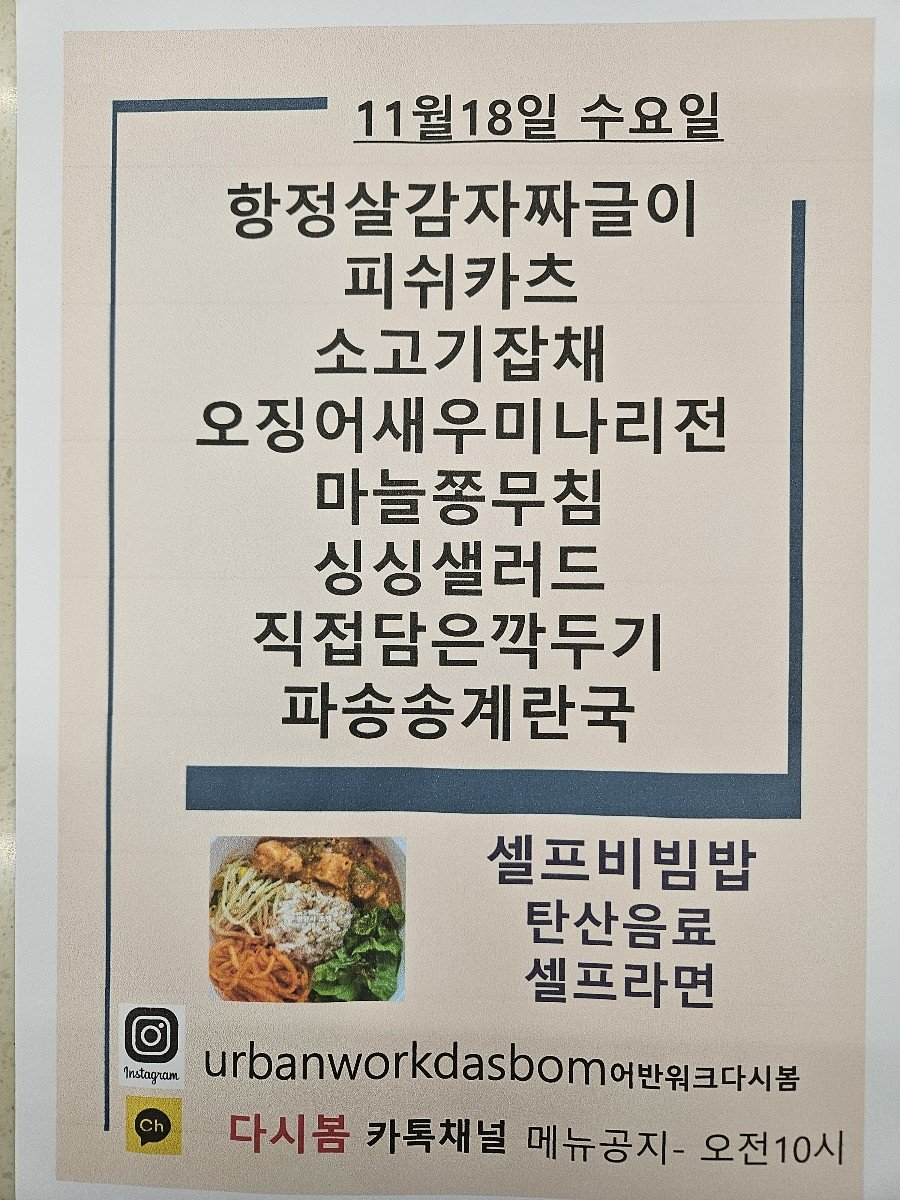
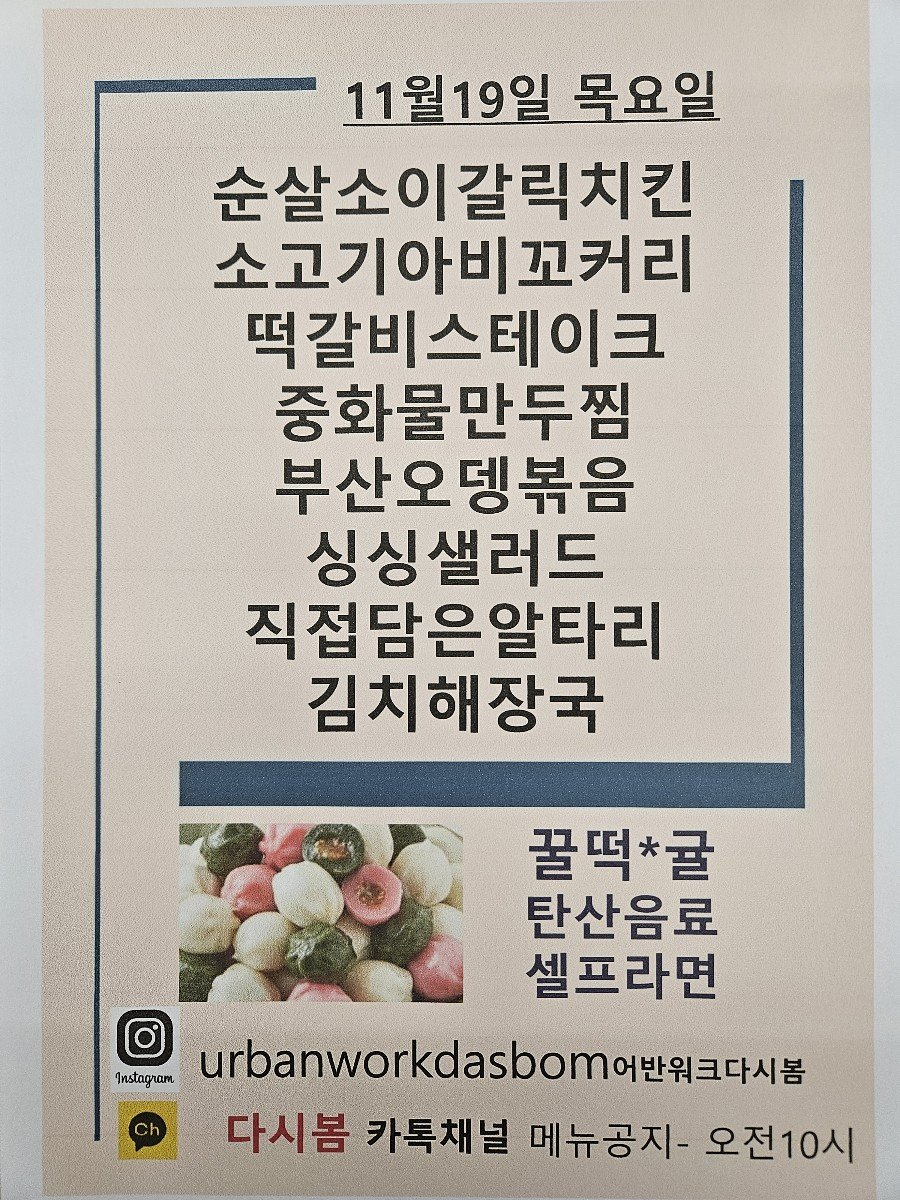
Update menu board assets

diff --git a/menu-today/index.html b/menu-today/index.html
@@ -209,7 +209,7 @@
 
     <section class="meta-bar">
       <div class="meta-card"><div class="meta-label">기준 날짜</div><div class="meta-value">2026년 11월 19일 목요일</div></div>
-      <div class="meta-card"><div class="meta-label">최종 가져온 시간</div><div class="meta-value">2026-11-19 09:19:09</div></div>
+      <div class="meta-card"><div class="meta-label">최종 가져온 시간</div><div class="meta-value">2026-11-19 09:39:28</div></div>
       <div class="meta-card"><div class="meta-label">확인 완료</div><div class="meta-value">9개 식당</div></div>
       <div class="meta-card"><div class="meta-label">준비중</div><div class="meta-value">3개 채널</div></div>
     </section>
@@ -235,7 +235,7 @@
             <div class="sub">가산 어반워크</div>
           </div>
         </div>
-        <div class="menu-inline-image"><img src="./images/dasibom.png" alt="다시 봄 식단 이미지"></div><ul><li>) 항정살감자짜글이</li><li>피쉬카즈</li><li>i 소고기잡채</li><li>오징어새우미나리전</li><li>싱싱샐러드</li><li>직접담은짝두기</li><li>파송송계란국</li><li>소고기잡채</li><li>시 고전시</li></ul>
+        <div class="menu-inline-image"><img src="./images/dasibom.png" alt="다시 봄 식단 이미지"></div><ul><li>순살소이갈릭치킨</li><li>소고기아비꼬커리</li><li>떡갈비스테이크</li><li>중화물만두찜</li><li>싱싱샐러드</li><li>직접담은알타리</li><li>김치해장국</li><li>목요일</li><li>꿀떡*글</li><li>타사으</li></ul>
       </article>
 
       <article class="restaurant-card">

diff --git a/guro-menu/index.html b/guro-menu/index.html
@@ -32,7 +32,7 @@
   </header>
   <section class="meta">
     <div><small>기준 날짜</small><strong>2026년 11월 19일 목요일</strong></div>
-    <div><small>최종 갱신</small><strong>2026-11-19 09:19:23</strong></div>
+    <div><small>최종 갱신</small><strong>2026-11-19 09:39:39</strong></div>
     <div><small>등록 식당</small><strong>5개</strong></div>
   </section>
   <div class="notice">공개 카카오 채널의 메뉴 이미지를 자동 수집하고 OCR로 정리합니다. 텍스트에 오타가 있을 수 있으니 식단 이미지를 함께 확인해 주세요.</div>
